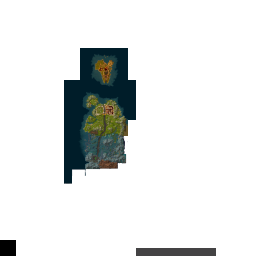
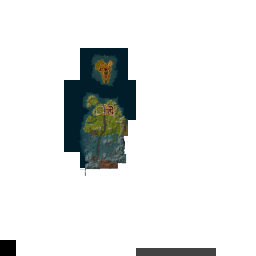
fix(website): uncover terrain near Scarlet Monastery

Changed region(s): [[0.25, 0.5938, 0.3438, 0.7188]]

diff --git a/website/tools/browser_terrain_seam.py b/website/tools/browser_terrain_seam.py
@@ -13,7 +13,7 @@ import serve
 from browser_maps import DevTools
 
 
-def run(browser, output, prefix='/', site_root=None):
+def run(browser, output, prefix='/', site_root=None, area='ghostlands'):
     output=output.resolve();output.mkdir(parents=True,exist_ok=True)
     if site_root:serve.ROOT=site_root.resolve()
     httpd=serve.server(0,prefix)
@@ -55,7 +55,7 @@ def run(browser, output, prefix='/', site_root=None):
                     script=client.call('Page.addScriptToEvaluateOnNewDocument',dict(source=hook))['identifier']
                     client.call('Page.navigate',dict(url=f'http://127.0.0.1:{httpd.server_port}{prefix}guide-editor/'))
                     time.sleep(.3)
-                    evaluate(r'''(async()=>{
+                    setup=r'''(async()=>{
                       const sleep=ms=>new Promise(r=>setTimeout(r,ms));
                       for(let i=0;i<100&&!document.getElementById('source');i++)await sleep(50);
                       const source=document.getElementById('source');
@@ -69,23 +69,45 @@ def run(browser, output, prefix='/', site_root=None):
                       for(const input of document.querySelectorAll('[data-layer]'))if(input.checked&&input.dataset.layer!=='guide')input.click();
                       document.getElementById('map-out').click();
                       window.seamSource=source.value;
-                    })()''')
+                    })()'''
+                    if area=='scarlet':
+                        setup=setup.replace('Ghostlands,50,100','Tirisfal Glades,100,30').replace("select('map-zone',463)","select('map-zone',20)")
+                    evaluate(setup)
+                    if area=='scarlet':
+                        evaluate(r'''(async()=>{
+                          await new Promise(r=>setTimeout(r,600));
+                          for(let i=0;i<100&&(seam.active||seam.decoding);i++)await new Promise(r=>setTimeout(r,100));
+                          const {fromPercent}=await import('./map-model.js');
+                          const m=await fetch('../map-assets-local/manifest.json').then(r=>r.json());
+                          const z=m.zones.find(z=>z.id===20),a=fromPercent(m,z,0,0),b=fromPercent(m,z,100,100),center=fromPercent(m,z,100,30);
+                          const r=document.getElementById('terrain').getBoundingClientRect();
+                          window.seamProbe={center,scale:Math.min((r.width-30)/(b.u-a.u),(r.height-30)/(b.v-a.v))/1.5};
+                        })()'''.replace('../map-assets-local/','../map-assets/' if site_root else '../map-assets-local/'))
                     results[mode]=[]
                     for level in range(3):
                         if level:evaluate("document.getElementById('map-in').click()")
+                        evaluate('window.seamZoom='+str(level))
                         sample=evaluate(r'''(async()=>{
                           const sleep=ms=>new Promise(r=>setTimeout(r,ms));await sleep(600);
                           for(let i=0;i<100&&(seam.active||seam.decoding);i++)await sleep(100);await sleep(200);
                           const canvas=document.getElementById('terrain');canvas.scrollIntoView({block:'center'});
                           const p=canvas.getContext('2d').getImageData(0,0,canvas.width,canvas.height).data;
-                          let navy=0,white=0;
+                          let navy=0,white=0,ocean=0;
                           for(let i=0;i<p.length;i+=4){
                             if((p[i]===33&&p[i+1]===36&&p[i+2]===58)||(p[i]===29&&p[i+1]===34&&p[i+2]===53))navy++;
                             if(p[i]===247&&(p[i+1]===245||p[i+1]===247)&&p[i+2]===247)white++;
+                            if(p[i]===0&&p[i+1]===29&&p[i+2]===41)ocean++;
                           }
                           if(document.getElementById('source').value!==seamSource)throw new Error('View changed source');
                           const r=canvas.getBoundingClientRect();
-                          return {navy,white,peak:seam.peak,cleaned:seam.cleaned,clip:{x:r.x+scrollX,y:r.y+scrollY,width:r.width,height:r.height,scale:1}};
+                          let probe=null;
+                          if(window.seamProbe){
+                            const s=seamProbe.scale*1.5**seamZoom;
+                            const x=Math.round(r.width/2+(40.5*256-1278.144-seamProbe.center.u)*s);
+                            const y=Math.round(r.height/2+(22.5*256+1152-seamProbe.center.v)*s);
+                            probe=[...canvas.getContext('2d').getImageData(x,y,1,1).data];
+                          }
+                          return {navy,white,ocean,probe,peak:seam.peak,cleaned:seam.cleaned,clip:{x:r.x+scrollX,y:r.y+scrollY,width:r.width,height:r.height,scale:1}};
                         })()''')
                         image=client.call('Page.captureScreenshot',dict(format='png',clip=sample.pop('clip'),captureBeyondViewport=True))['data']
                         (output/f'{mode}-{level}.png').write_bytes(base64.b64decode(image))
@@ -93,10 +115,14 @@ def run(browser, output, prefix='/', site_root=None):
                     client.call('Page.removeScriptToEvaluateOnNewDocument',dict(identifier=script))
                 for before,after in zip(results['original'],results['cleaned']):
                     if not after['cleaned'] or after['peak']>4:raise RuntimeError('Cleanup not painted or unbounded requests')
-                    if before['navy']+before['white']<1000:raise RuntimeError('Control did not reproduce blank border')
-                    if after['navy']+after['white']>(before['navy']+before['white'])*.1:raise RuntimeError('Blank border remains')
+                    if area=='scarlet':
+                        if before['probe']!=[0,29,41,255]:raise RuntimeError('Control did not reproduce western padding')
+                        if after['probe'] in ([0,29,41,255],[36,51,61,255]):raise RuntimeError('Western padding still covers native terrain')
+                    else:
+                        if before['navy']+before['white']<1000:raise RuntimeError('Control did not reproduce blank border')
+                        if after['navy']+after['white']>(before['navy']+before['white'])*.1:raise RuntimeError('Blank border remains')
                 (output/'result.json').write_text(json.dumps(results,indent=2)+'\n')
-                print('Ghostlands seam: three zoom levels passed; source unchanged; request peak <=4.')
+                print(area+': three zoom levels passed; source unchanged; request peak <=4.')
             finally:
                 if client:client.socket.close()
                 process.terminate();process.wait(timeout=15)
@@ -108,4 +134,5 @@ if __name__=='__main__':
     parser=argparse.ArgumentParser(description=__doc__)
     for name in ('browser','output'):parser.add_argument('--'+name,type=Path,required=True)
     parser.add_argument('--prefix',default='/');parser.add_argument('--site-root',type=Path)
-    args=parser.parse_args();run(args.browser,args.output,args.prefix,args.site_root)
+    parser.add_argument('--area',choices=('ghostlands','scarlet'),default='ghostlands')
+    args=parser.parse_args();run(args.browser,args.output,args.prefix,args.site_root,args.area)

diff --git a/website/tools/test_terrain_cleanup.py b/website/tools/test_terrain_cleanup.py
@@ -28,13 +28,26 @@ class Cleanup(unittest.TestCase):
     def test_review_scope_is_only_ghostlands_border(self):
         plan=json.loads(c.RECIPE.read_text())
         self.assertEqual((plan['region']['physical'],plan['region']['display']),(530,0))
-        self.assertEqual(len(plan['tiles']),28)
+        self.assertEqual(len(plan['tiles']),33)
         for e in plan['tiles']:
             x,y=map(int,e['key'].split(','))
             self.assertTrue(40<=x<=48 and 15<=y<=22)
-            self.assertIn(e['mode'],('edge-navy','empty-border'))
-            if e['mode']=='empty-border':self.assertTrue(x==48 or y==22)
+            self.assertIn(e['mode'],('edge-navy','edge-padding','empty-border'))
+            if e['mode']=='edge-padding':self.assertEqual(e['key'],'42,21')
+            if e['mode']=='empty-border':self.assertTrue(x==48 or y==22 or (x in (40,41) and 19<=y<=21))
             self.assertGreater(e['removedPixels'],0)
+
+    def test_western_padding_no_longer_covers_tirisfal(self):
+        entries={e['key']:e for e in json.loads(c.RECIPE.read_text())['tiles']}
+        for x in (40,41):
+            for y in range(19,23):
+                self.assertEqual(entries[f'{x},{y}']['mode'],'empty-border')
+                self.assertEqual(entries[f'{x},{y}']['removedPixels'],65536)
+
+    def test_ocean_colour_is_only_removed_by_explicit_rule(self):
+        raw=bytes((0,29,41,255))*65536
+        self.assertEqual(c.mask_pixels(raw,'edge-navy'),(raw,0))
+        self.assertEqual(c.mask_pixels(raw,'edge-padding'),(bytes(len(raw)),65536))
 
     def test_changed_manifest_fails_before_writing(self):
         with tempfile.TemporaryDirectory() as folder:

diff --git a/website/tools/map_terrain_cleanup.py b/website/tools/map_terrain_cleanup.py
@@ -21,11 +21,12 @@ def mask_pixels(raw, mode):
         raise ValueError('Expected one native RGBA tile')
     if mode == 'empty-border':
         return bytes(len(raw)), 65536
-    if mode != 'edge-navy':
+    if mode not in ('edge-navy','edge-padding'):
         raise ValueError('Unknown cleanup rule')
     # Remove only the two reviewed flat-background colours connected to an
     # outer edge. Identically coloured isolated terrain pixels are retained.
-    eligible = bytearray(tuple(raw[i:i+4]) in NAVY for i in range(0, len(raw), 4))
+    colours = NAVY | {(0,29,41,255)} if mode=='edge-padding' else NAVY
+    eligible = bytearray(tuple(raw[i:i+4]) in colours for i in range(0, len(raw), 4))
     pending = deque()
     for i in range(65536):
         if eligible[i] and (i < 256 or i >= 65280 or i % 256 in (0, 255)):

diff --git a/website/TERRAIN_CLEANUP.md b/website/TERRAIN_CLEANUP.md
@@ -1,8 +1,9 @@
 # Ghostlands terrain edges
 
 The stock minimap tiles contain opaque navy filler south/east of Ghostlands
-and a white eastern border. When the expansion map is placed beside Eastern
-Plaguelands, those pixels cover the underlying Eastern Kingdoms terrain.
+and a white eastern border. Flat ocean padding on its southwest edge also
+covers terrain near Scarlet Monastery. When the expansion map is placed beside
+Eastern Plaguelands, those pixels cover the underlying Eastern Kingdoms terrain.
 
 `map-assets-local/terrain-cleanup/` is a separate derived layer. The original
 tiles, receipts, zone bounds, projection offsets and spawn records are unchanged.
@@ -11,10 +12,12 @@ This does not invent a seamless geographical connection between the two maps.
 
 The reviewed recipe is `tools/fixtures/ghostlands-terrain.json`:
 
-- 28 native tile coordinates, bound to their original paths and SHA-256 hashes.
+- 33 native tile coordinates, bound to their original paths and SHA-256 hashes.
 - White filler tiles and navy-only bottom border tiles become transparent.
 - Partial tiles remove only edge-connected pixels of the two exact navy filler
   colours. Other pixels, including isolated matching terrain pixels, remain.
+- Eight reviewed southwest padding tiles become transparent. Tile 42,21 also
+  removes edge-connected flat ocean colour, retaining its visible land.
 - Reduced zoom tiles are rebuilt from these copies and unchanged siblings,
   so cached fallback resolutions do not bring back the rectangles.
 
@@ -31,6 +34,7 @@ pixel counts or generator code require renewed review/regeneration.
 ```text
 python website/tools/test_terrain_cleanup.py --assets website/map-assets-local --converter <installed-ffmpeg>
 python website/tools/browser_terrain_seam.py --browser <installed-Chrome-or-Edge> --output build/terrain-seam-check
+python website/tools/browser_terrain_seam.py --browser <installed-Chrome-or-Edge> --output build/scarlet-seam-check --area scarlet
 ```
 
 The static packager verifies the cleanup recipe, dependencies, complete tile
